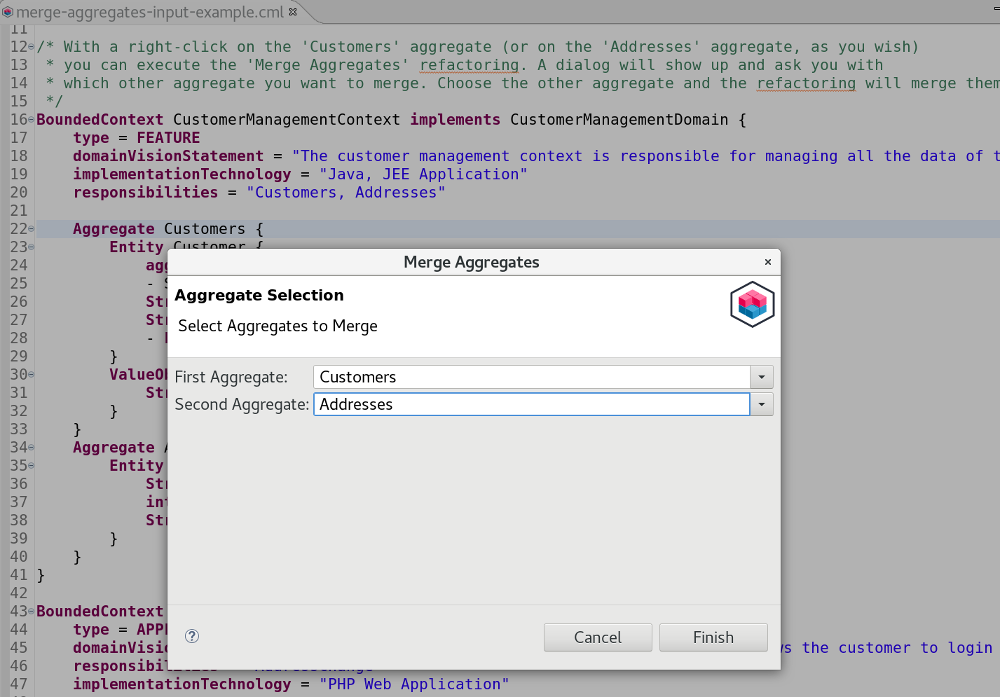
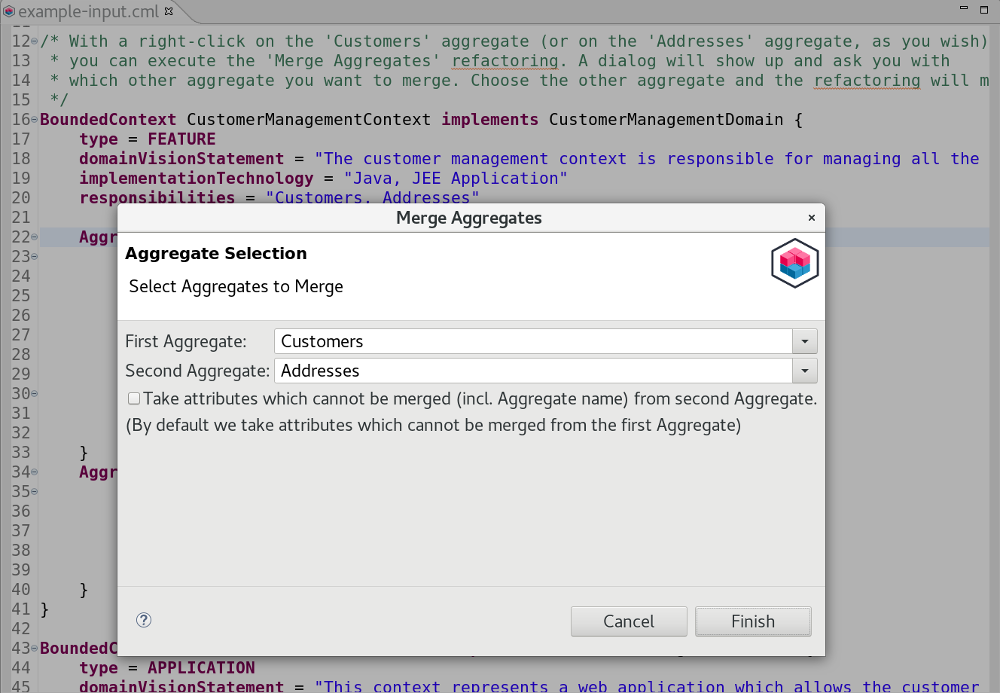
Mention AR updates of v4.x.x in docs (#16)

Changed region(s): [[0.0, 0.0, 1.0, 1.0], [0.992, 0.0, 1.0, 0.0303]]

diff --git a/_includes/footer.html b/_includes/footer.html
@@ -2,7 +2,7 @@
     <div class="container">
 
         <p class="text-center">
-            {{ site.title }} {{ site.time | date: '%Y' }} |
+            &copy; {{ site.title }} {{ site.time | date: '%Y' }} |
             Powered by <a href="https://github.com/aksakalli/jekyll-doc-theme">Jekyll Doc Theme</a>
         </p>
         <!-- <p class="text-muted">Place sticky footer content here.</p> -->

diff --git a/_docs/architectural-refactorings/ar-merge-aggregates.md b/_docs/architectural-refactorings/ar-merge-aggregates.md
@@ -24,11 +24,22 @@ This Architectural Refactoring (AR) merges two aggregates in a bounded context t
 in a situation where the entities in the two aggregates somehow belong together and a merge of the aggregates improves the 
 coupling and cohesion. 
 
+**Notes:**
+ * This AR is not applicable if the two aggregates contain domain objects (such as Entities or Value Objects) with the same name, since
+   duplicate names within the same aggregate are not allowed. An application of the AR in such a case would lead to an erroneous result.
+ * The AR merges all aggregate attributes (such as _responsibilities_, _useCases_, etc.) which are possible
+   to merge. However, there are still attributes which cannot be merged, such as the _name_ or the _knowledgeLevel_.
+    * All attributes which cannot be merged are taken from the first aggregate (by default) selected in the dialog 
+      (see screenshot below).
+    * You have to use the corresponding checkbox on the input dialog, if you want to take the attributes from the second aggregate.
+
 **Inverse AR's:**
  * [AR-1: Split Aggregate by Entities](/docs/ar-split-aggregate-by-entities/)
 
 ## Preconditions
  * Your bounded context must contain **at least two aggregates** which can be merged.
+ * The two aggregates are not allowed to contain domain objects, such as entities or value objects, with the same name. This would 
+   lead to duplicate names in the resulting aggregate.
 
 ## Input
  * Two aggregates which belong to the same bounded context.
@@ -49,6 +60,12 @@ The following bounded context contains two aggregates. The AR is available on bo
 After triggering this refactoring, a dialog pops up on which you can choose with which other aggregate you want to merge:
 
 <a href="/img/merge-aggregates-dialog.png">![Merge Aggregates Example Dialog](/img/merge-aggregates-dialog.png)</a>
+
+<div class="alert alert-custom">
+<strong>Note:</strong> Use the checkbox "Take attributes which cannot be merged (incl. Aggregate name) from second Aggregate.", 
+if you prefer that the attributes which cannot be merged (also see hint <a href="#goal">above</a>) are taken from the 
+second Aggregate. <strong>By default, the attributes are taken from the first Aggregate.</strong>
+</div>
 
 ### Result
 The resulting bounded context contains only one aggregate containing all entities of the previously selected aggregates:

diff --git a/_docs/architectural-refactorings/ar-merge-bounded-contexts.md b/_docs/architectural-refactorings/ar-merge-bounded-contexts.md
@@ -18,6 +18,11 @@ belong together. This may improve the cohesion within the resulting bounded cont
 
 **Notes:**
  * By applying this AR multiple times you may end with one single Bounded Context and an empty Context Map (no relationships).
+ * The AR merges all Bounded Context attributes (such as _exposed aggregates_, _implementation technology_, etc.) which are possible
+   to merge. However, there are still attributes which cannot be merged, such as the _name_ or the _domain vision statement_.
+    * All attributes which cannot be merged are taken from the first Bounded Context (by default) selected in the dialog 
+      (see screenshot below).
+    * You have to use the corresponding checkbox on the input dialog, if you want to take the attributes from the second Bounded Context.
 
 **Inverse AR's:**
  * [AR-4: Extract Aggregates by Volatility](/docs/ar-extract-aggregates-by-volatility/)
@@ -47,6 +52,12 @@ The following model contains two bounded contexts with one aggregate each. There
 After triggering this refactoring, a dialog pops up on which you can choose with which other bounded context you want to merge:
 
 <a href="/img/merge-bounded-contexts-dialog.png">![Merge Bounded Contexts Example Dialog](/img/merge-bounded-contexts-dialog.png)</a>
+
+<div class="alert alert-custom">
+<strong>Note:</strong> Use the checkbox "Take attributes which cannot be merged (incl. Bounded Context name) from second Bounded
+Context.", if you prefer that the attributes which cannot be merged (also see hint <a href="#goal">above</a>) are taken from the 
+second Bounded Context. <strong>By default, the attributes are taken from the first Bounded Context.</strong>
+</div>
 
 ### Result
 The resulting model contains one bounded context with both aggregates of the selected bounded contexts:

diff --git a/_docs/architectural-refactorings/ar-extract-aggregates-by-cohesion.md b/_docs/architectural-refactorings/ar-extract-aggregates-by-cohesion.md
@@ -46,6 +46,12 @@ which should be extracted:
 
 <a href="/img/extract-aggregates-by-cohesion-dialog.png">![Extract Aggregates by Cohesion Example Dialog](/img/extract-aggregates-by-cohesion-dialog.png)</a>
 
+<div class="alert alert-custom">
+<strong>Note</strong> that if you select all Aggregates within this dialog you end up with an empty Bounded Context, since everything is
+moved to a new Bounded Context. From our perspective selecting all Aggregates does therefore not make much sense. You can alternatively
+simply rename the existing Bounded Context.
+</div>
+
 ### Result
 The resulting model contains a new bounded context with the selected aggregates:
 

diff --git a/_docs/architectural-refactorings/ar-extract-aggregates-by-volatility.md b/_docs/architectural-refactorings/ar-extract-aggregates-by-volatility.md
@@ -52,6 +52,11 @@ After triggering this refactoring, a dialog pops up on which you can choose by w
 
 <a href="/img/extract-aggregates-by-volatility-dialog.png">![Merge Bounded Contexts Example Dialog](/img/extract-aggregates-by-volatility-dialog.png)</a>
 
+<div class="alert alert-custom">
+<strong>Note</strong> that you can only select volatility values which at least occur once in your Bounded Context. The selection of 
+a value which does not occur would not extract anything.
+</div>
+
 ### Result
 The resulting model contains a new bounded context with the aggregate which is likely to change (OFTEN):
 
